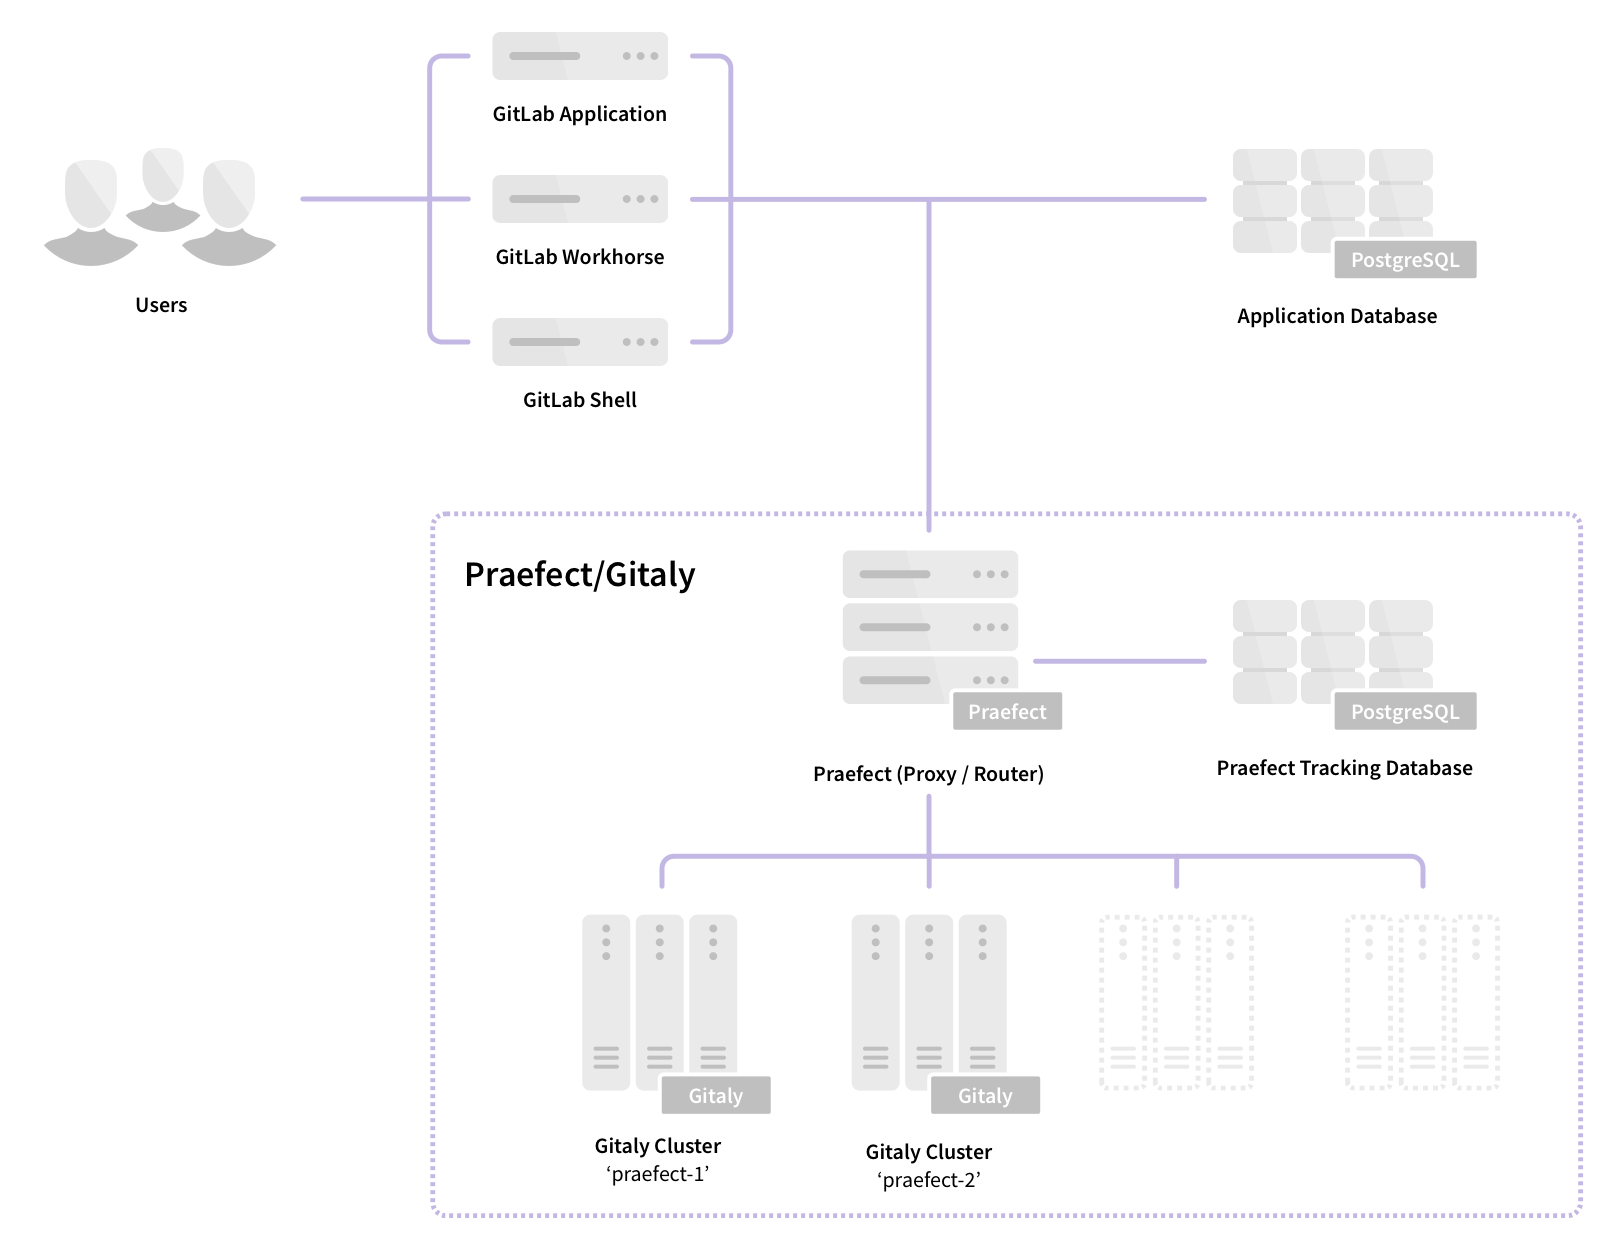
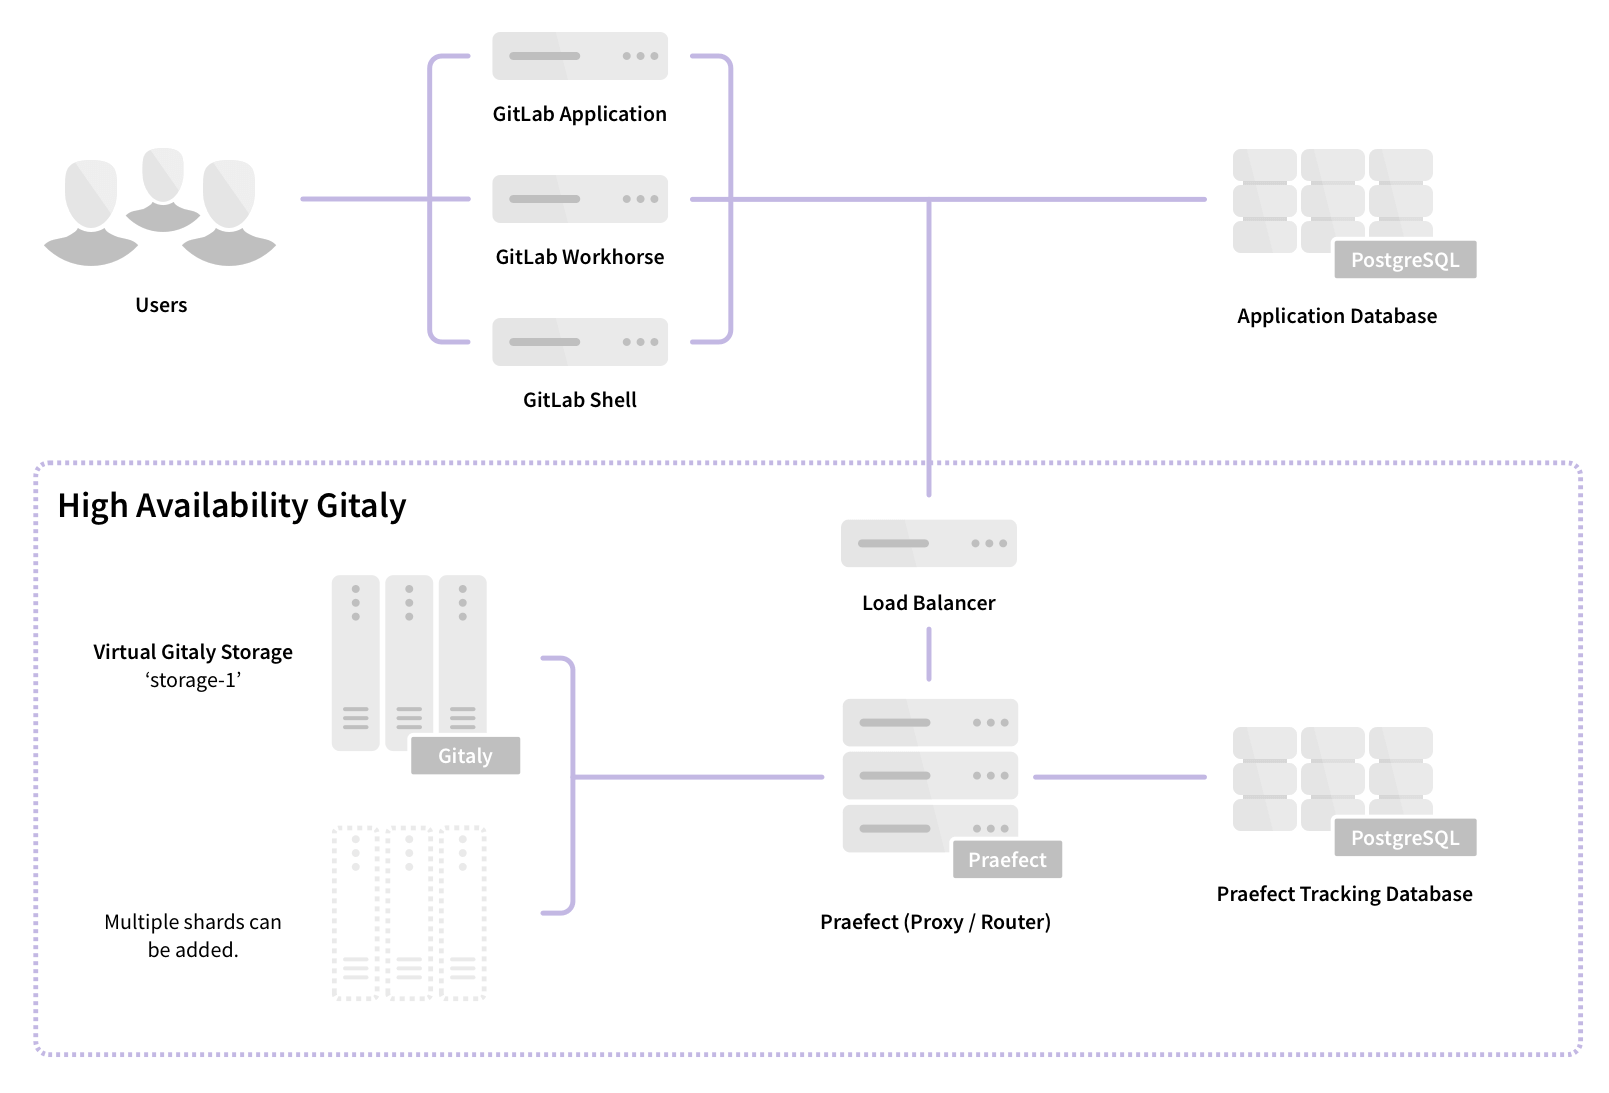
Revised Gitaly beta documentation

diff --git a/doc/administration/gitaly/praefect.md b/doc/administration/gitaly/praefect.md
@@ -1,34 +1,36 @@
 # Praefect: High Availability
 
-NOTE: **Note:** Praefect is an experimental service, and data loss is likely.
+NOTE: **Note:** Praefect is a
+[beta](https://about.gitlab.com/handbook/product/#alpha-beta-ga) component that
+allows Gitaly to be run in a highly available configuration. While unexpected
+data loss is not likely, Praefect is not yet ready for production environments.
 
 Praefect is an optional reverse-proxy for [Gitaly](../index.md) to manage a
-cluster of Gitaly nodes for high availability. Initially, high availability
-be implemented through asynchronous replication. If a Gitaly node becomes
-unavailable, it will be possible to fail over to a warm Gitaly replica.
+cluster of Gitaly nodes for high availability. High availability is currently
+implemented through asynchronous replication. If a Gitaly node becomes
+unavailable, Praefect will automatically route traffic to a warm Gitaly replica.
 
-The first minimal version will support:
+The current version supports:
 
 - Eventual consistency of the secondary replicas.
 - Automatic fail over from the primary to the secondary.
 - Reporting of possible data loss if replication queue is non empty.
 
 Follow the [HA Gitaly epic](https://gitlab.com/groups/gitlab-org/-/epics/1489)
-for updates and roadmap.
+for improvements including
+[strong consistency](https://gitlab.com/groups/gitlab-org/-/epics/1189) and
+[horizontally distributing reads](https://gitlab.com/groups/gitlab-org/-/epics/2013).
 
 ## Requirements for configuring Gitaly for High Availability
 
-NOTE: **Note:** this reference architecture is not highly available because
-Praefect is a single point of failure.
+A minimum highly available configuration requires:
 
-The minimal [alpha](https://about.gitlab.com/handbook/product/#alpha-beta-ga)
-reference architecture additionally requires:
-
-- 1 Praefect node
-- 1 PostgreSQL server (PostgreSQL 9.6 or newer)
+- 1 highly available load balancer
+- 1 highly available PostgreSQL server (PostgreSQL 9.6 or newer)
+- 2 Praefect nodes
 - 3 Gitaly nodes (1 primary, 2 secondary)
 
-![Alpha architecture diagram](img/praefect_architecture_v12_10.png)
+![Architecture diagram](img/praefect_architecture_v12_10.png)
 
 See the [design
 document](https://gitlab.com/gitlab-org/gitaly/-/blob/master/doc/design_ha.md)
@@ -64,6 +66,7 @@ GitLab](https://about.gitlab.com/install/).
 
 You will need the IP/host address for each node.
 
+1. `LOADBALANCER_SERVER_ADDRESS`: the IP/hots address of the load balancer
 1. `POSTGRESQL_SERVER_ADDRESS`: the IP/host address of the PostgreSQL server
 1. `PRAEFECT_HOST`: the IP/host address of the Praefect server
 1. `GITALY_HOST`: the IP/host address of each Gitaly server
@@ -245,9 +248,9 @@ application server, or a Gitaly node.
 1. Configure the **Praefect** cluster to connect to each Gitaly node in the
    cluster by editing `/etc/gitlab/gitlab.rb`.
 
-   In the example below we have configured one cluster named `praefect`. This
-   cluster has three Gitaly nodes `gitaly-1`, `gitaly-2`, and `gitaly-3`, which
-   will be replicas of each other.
+   In the example below we have configured one virtual storage (or shard) named
+   `storage-1`. This cluster has three Gitaly nodes `gitaly-1`, `gitaly-2`, and
+   `gitaly-3`, which will be replicas of each other.
 
    Replace `PRAEFECT_INTERNAL_TOKEN` with a strong secret, which will be used by
    Praefect when communicating with Gitaly nodes in the cluster. This token is
@@ -266,7 +269,7 @@ application server, or a Gitaly node.
    # Name of storage hash must match storage name in git_data_dirs on GitLab
    # server ('praefect') and in git_data_dirs on Gitaly nodes ('gitaly-1')
    praefect['virtual_storages'] = {
-     'praefect' => {
+     'storage-1' => {
        'gitaly-1' => {
          'address' => 'tcp://GITALY_HOST:8075',
          'token'   => 'PRAEFECT_INTERNAL_TOKEN',
@@ -312,7 +315,7 @@ demote the primary to be a secondary.
    # failover_enabled turns on automatic failover
    praefect['failover_enabled'] = true
    praefect['virtual_storages'] = {
-     'praefect' => {
+     'storage-1' => {
        'gitaly-1' => {
          'address' => 'tcp://GITALY_HOST:8075',
          'token'   => 'PRAEFECT_INTERNAL_TOKEN',
@@ -555,7 +558,7 @@ Particular attention should be shown to:
 - the storage name added to `git_data_dirs` in this section must match the
   storage name under `praefect['virtual_storages']` on the Praefect node. This
   was set in the [Praefect](#praefect) section of this guide. This document uses
-  `praefect` as the Praefect storage name.
+  `storage-1` as the Praefect storage name.
 
 1. SSH into the **GitLab** node and login as root:
 
@@ -577,7 +580,7 @@ Particular attention should be shown to:
      "default" => {
        "gitaly_address" => "tcp://GITLAB_HOST:8075"
      },
-     "praefect" => {
+     "storage-1" => {
        "gitaly_address" => "tcp://PRAEFECT_HOST:2305",
        "gitaly_token" => 'PRAEFECT_EXTERNAL_TOKEN'
      }
